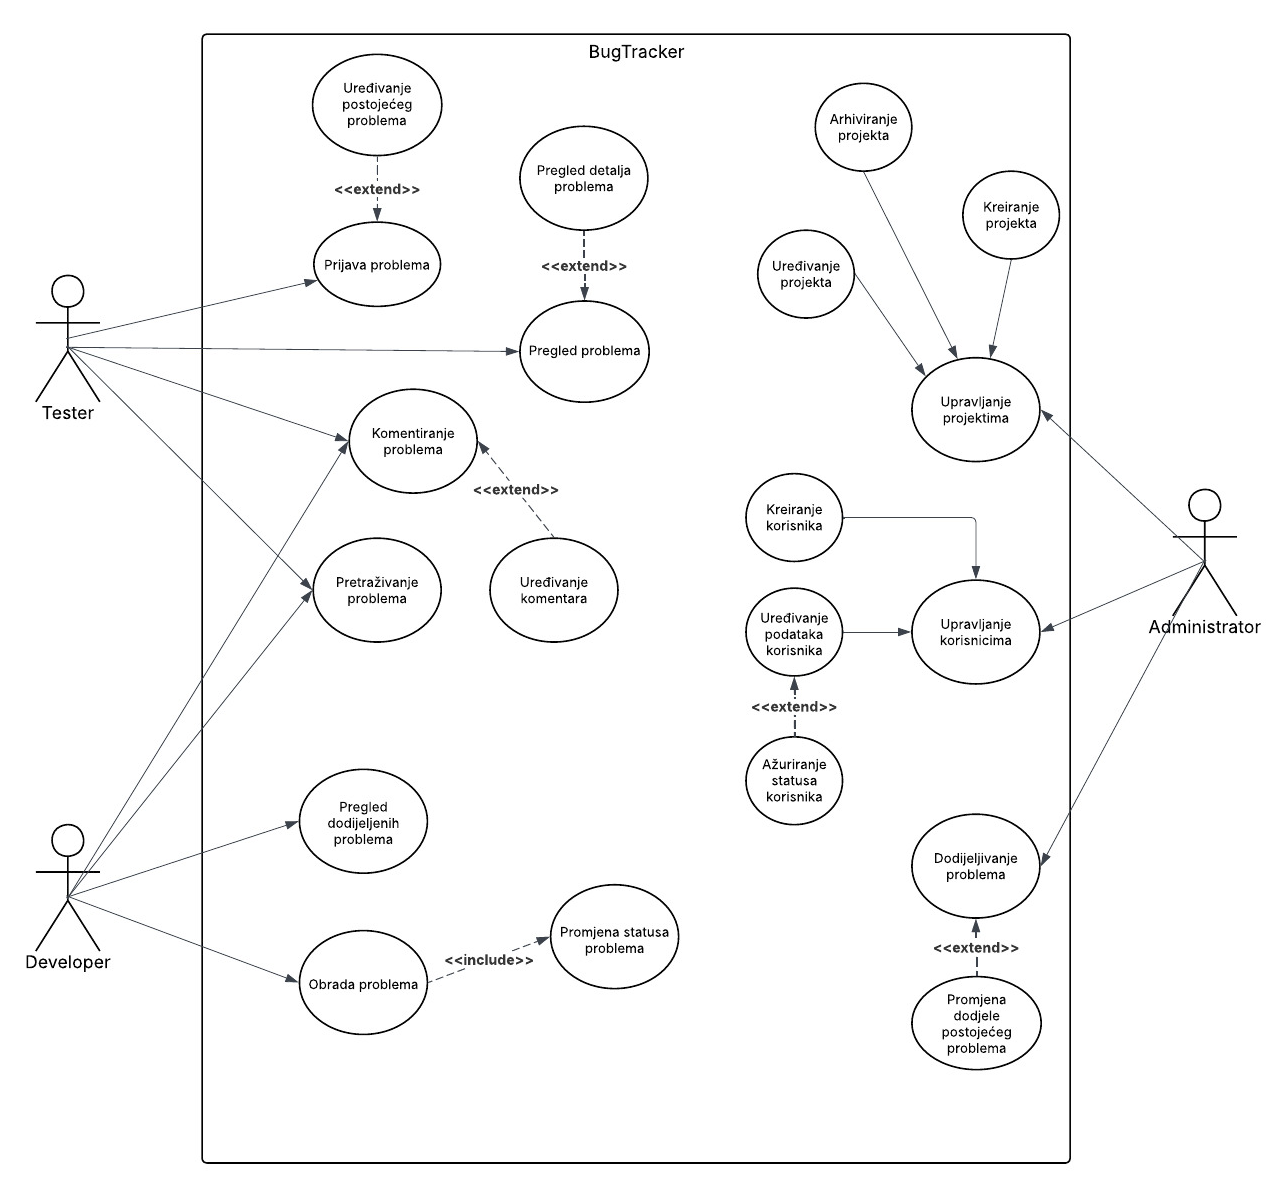
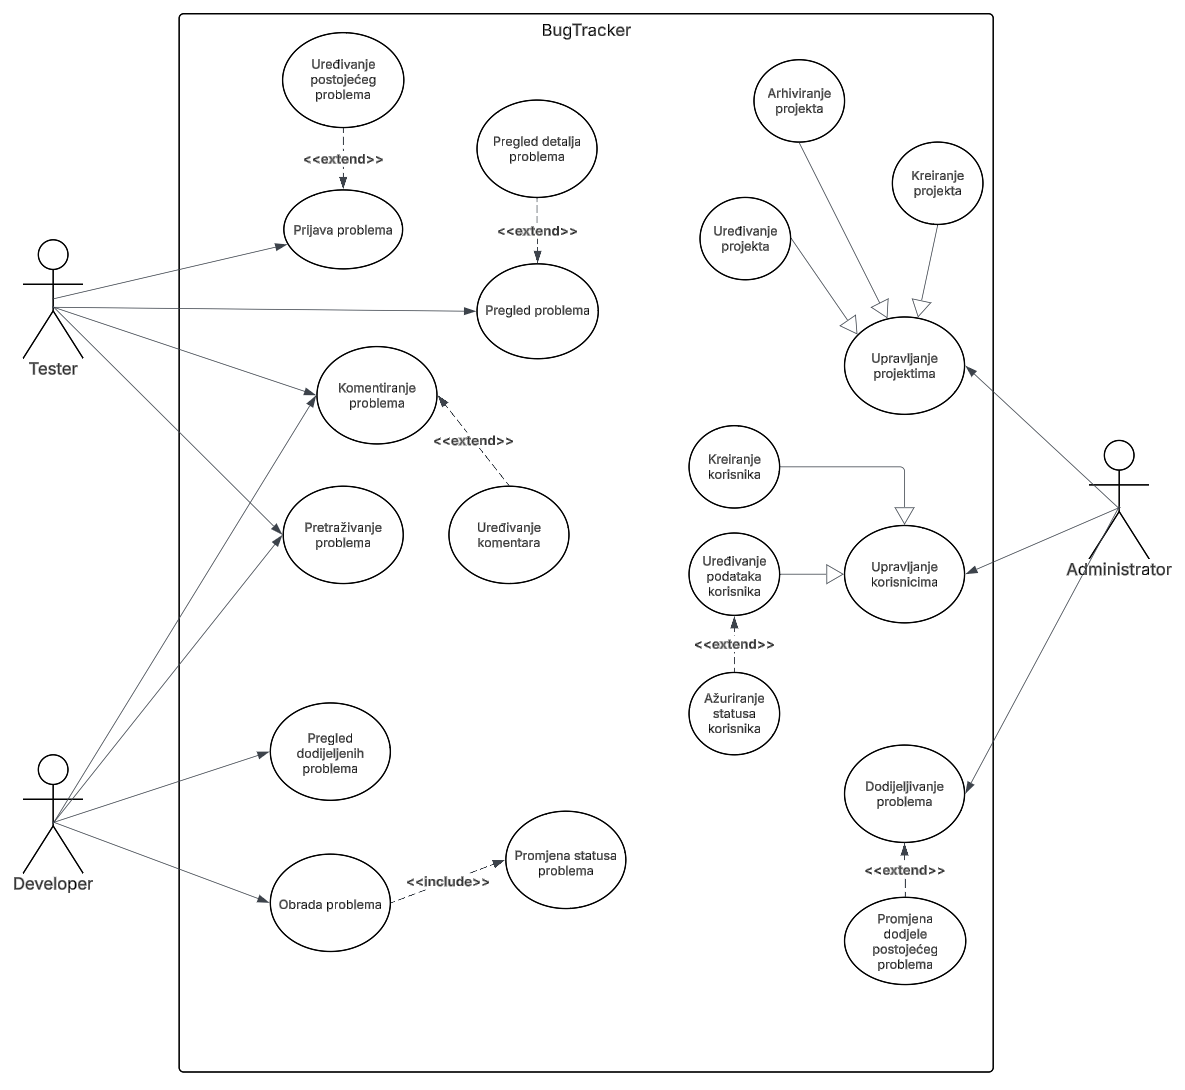
ispravio uml dijagrame i dodao prototip

diff --git a/readme.md b/readme.md
@@ -121,6 +121,10 @@ Postuvjet:
 
 ![UseCase sequence dijagram](Use-Case-Sequence.png)
 
+## Class model
+
+![Class model](Class-Model.png)
+
 ## Link na javni prototip
 
-(Javni prototip)[#]
+[Javni prototip na Figmi](https://www.figma.com/proto/2cuI4zi1EPM0Qb3RuzRjSS/BugTracker?node-id=0-1&t=uJ5pskhX8eYchWpY-1)
